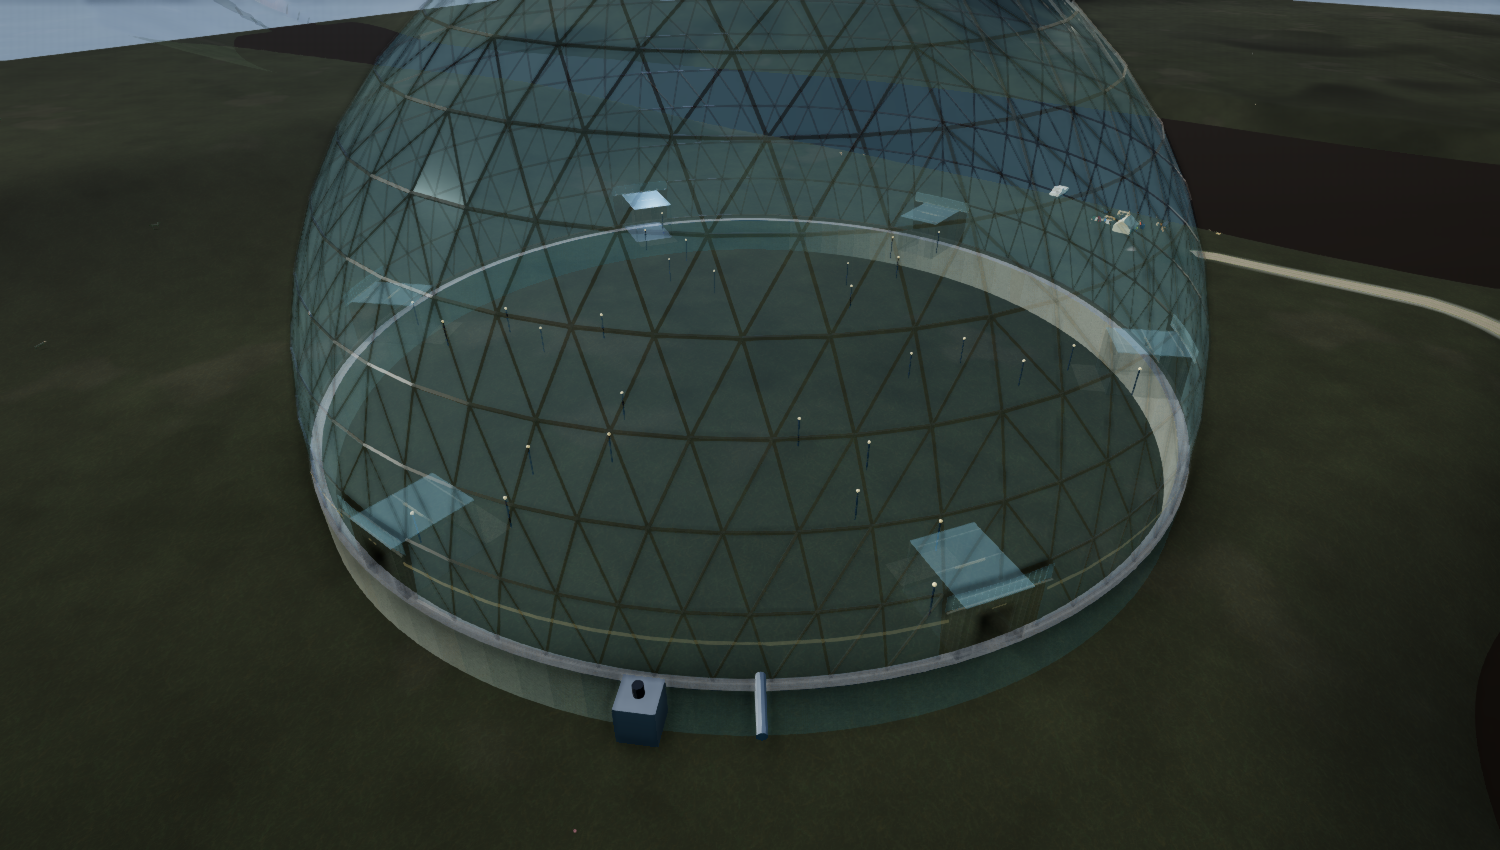
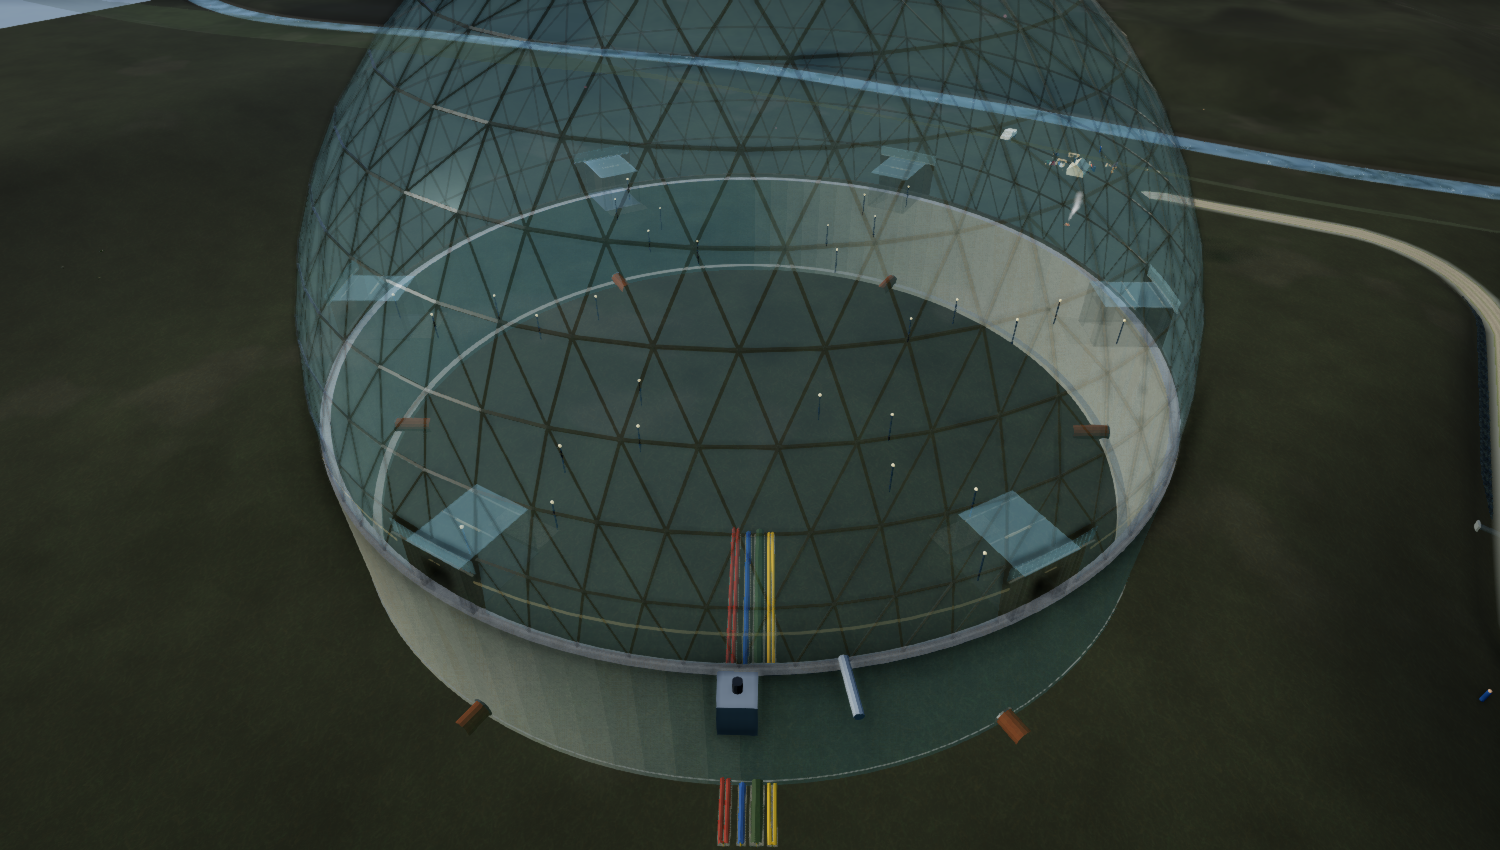
dig shots: panel view

diff --git a/src/game/buildkit/domeDig.ts b/src/game/buildkit/domeDig.ts
@@ -543,9 +543,9 @@ export function buildSection(o: SectionOpts): THREE.Group {
   };
   for (let ft = 10; ft <= D * FT_PER_UNIT + 1e-6; ft += ft < 50 ? 10 : 20) sprite(`${ft} ft`, rx - 0.52, rulerTop - ft / FT_PER_UNIT, 0.02, 0.55);
   sprite('grade', rx - 0.52, rulerTop, 0.02, 0.55);
-  sprite(`Skirt: ${TIER[tier].skirtFt} ft deep, ${TIER[tier].skirtThickFt} ft thick`, 0, rulerTop - k.depthU - 0.35, 0.03, 2.4, 'rgba(110,112,118,0.85)');
-  sprite(`A plain crew digs ${DIG_DEPTH_FT[0]} to ${DIG_DEPTH_FT[1]} ft`, half - 1.4, rulerTop - DIG_DEPTH_FT[1] / FT_PER_UNIT - 0.14, 0.03, 2.4, 'rgba(120,90,10,0.85)');
-  sprite(`A crew that has learned the ground: ${DIG_DEPTH_FT[0] + DIG_DEEPER} to ${DIG_DEPTH_FT[1] + DIG_DEEPER} ft`, half - 2.1, rulerTop - (DIG_DEPTH_FT[1] + DIG_DEEPER) / FT_PER_UNIT - 0.14, 0.03, 3.6, 'rgba(150,40,30,0.85)');
+  sprite(`Skirt: ${TIER[tier].skirtFt} ft deep, ${TIER[tier].skirtThickFt} ft thick`, 0, rulerTop - k.depthU - 0.35, 0.03, 3.4, 'rgba(110,112,118,0.85)');
+  sprite(`A plain crew digs ${DIG_DEPTH_FT[0]} to ${DIG_DEPTH_FT[1]} ft`, half * 0.45, rulerTop - DIG_DEPTH_FT[1] / FT_PER_UNIT - 0.14, 0.03, 2.4, 'rgba(120,90,10,0.85)');
+  sprite(`A crew that has learned the ground: ${DIG_DEPTH_FT[0] + DIG_DEEPER} to ${DIG_DEPTH_FT[1] + DIG_DEEPER} ft`, half * 0.4, rulerTop - (DIG_DEPTH_FT[1] + DIG_DEEPER) / FT_PER_UNIT - 0.14, 0.03, 3.6, 'rgba(150,40,30,0.85)');
   let ys = 0; for (const st of STRATA.slice(0, 4)) { const mid = (st.fromFt + Math.min(st.toFt, D * FT_PER_UNIT)) / 2; if (st.fromFt < D * FT_PER_UNIT) sprite(st.name, -half + 1.0, rulerTop - mid / FT_PER_UNIT, 0.02, 1.4); ys++; }
   void ys;
   return g;
